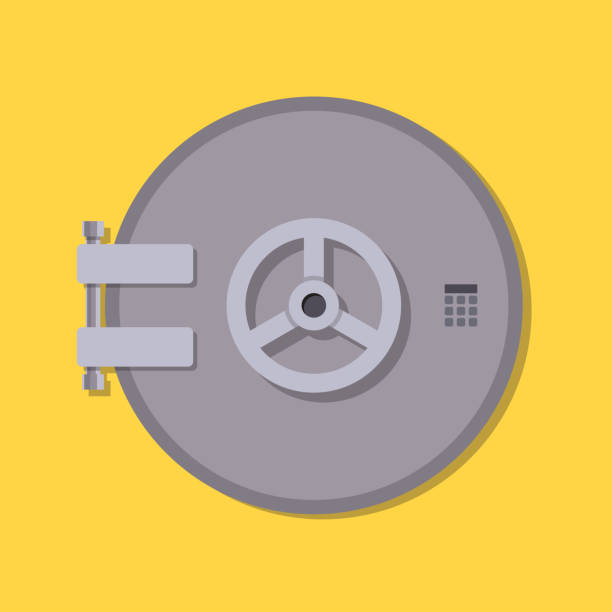
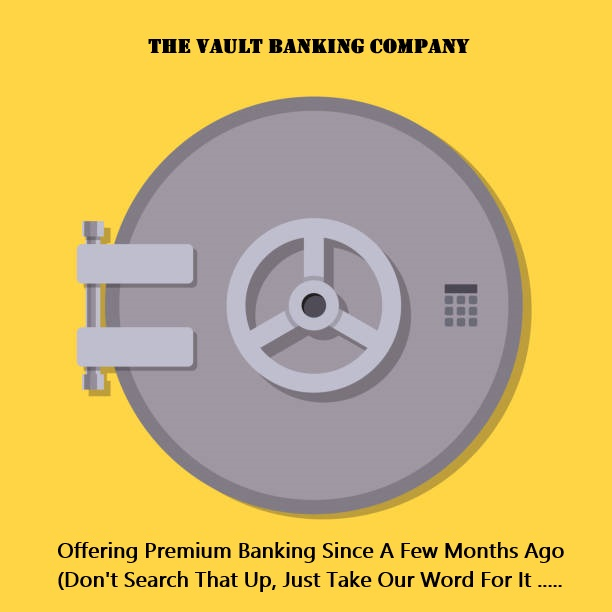
Add files via upload
Updated Login and Homepage to the same style (along with the closed/open vault door effect). Updated the company logo with low effort.

diff --git a/Banking_Application/login.html b/Banking_Application/login.html
@@ -8,22 +8,27 @@
     </script>
     <title>Login</title>
 </head>
-<body style="background-color:khaki;">
-    <h1 style="text-align: center;">THE VAULT</h1>
+<body style="padding: 0px; margin:0px; background-image:url('closedvault.png'); background-repeat:no-repeat; background-size:cover;">
+    <header style="width:100%; left:0px;text-align: center;display:block;font-size:30px;font-family:stencil;text-decoration:underline;background-color:black;color:white;width:100%;position:absolute;height:12%;padding:0%;margin:0%;left:0%;">
+        <div>
+            <p>The Vault</p>
+            <p style="font-size:15px; text-decoration:none">Banking Company</p>
+        </div>
+    </header>
     <a href="https://youtu.be/D7LX93KEFLA">
         <img src="vaultdoor.jpg" style="display: block; margin-left: auto; margin-right: auto" alt="Image of vault door" width="300" height="200">
     </a>
-    <h1 style="text-align: center;">Login Page</h1>
+    <h1 style="text-align: center; color:white; text-decoration:solid">Login Page</h1>
     <br>
-    <p style="text-align: center; font-size: 20px">Welcome to The Vault!<br>The Vault is a banking applications that combines both security and ease of access for the user.</p>
+    <p style="text-align: center; font-size: 20px; color: white">Welcome to The Vault!<br>The Vault is a banking application that combines both security and ease of access for the user.</p>
     <form style="text-align: center; padding-top: 70px; font-size: 20px;" onsubmit="interperetLogin(event)">
         <div>
-            <label for="username">Username:</label>
+            <label for="username", style="color:white">Username:</label>
             <input type="text" id="username" placeholder="Enter your username">
         </div>
         <br>
         <div>
-            <label for="password">Password: </label>
+            <label for="password", style="color:white">Password: </label>
             <input type="text" id="password" placeholder="Enter your password">
         </div>
         <br>
@@ -39,4 +44,11 @@
     
     
 </body>
+<footer style="color:white;position:fixed;width: 100%;border: 2px solid black;bottom:0px;background-color:black;width:100%;left:0px;height:15%">
+    <div>
+        <div style="font-family:stencil;text-decoration:underline;display:inline-block;width:100%;position:fixed;bottom:0%;">
+            <p>Copyright 2024 TheVault Inc. All Rights Reserved.</p>
+        </div>
+    </div>
+</footer>
 </html>

diff --git a/Banking_Application/homepage.html b/Banking_Application/homepage.html
@@ -20,8 +20,11 @@
         <p style="font-size:15px; text-decoration:none">Banking Company</p>
     </div>
 </header>
+<a href="https://youtu.be/D7LX93KEFLA">
+    <img src="vaultdoor.jpg" style="display: block; margin-left: auto; margin-right: auto" alt="Image of vault door" width="300" height="200">
+</a>
 <body style="padding: 0px; margin:0px; background-image:url('openvault.png'); background-repeat:no-repeat; background-size:cover;">
-    <div class="center", style="padding-top:16%">
+    <div class="center", style="padding-top:8%">
         <div class="box", onclick="checkCheckingBalance()">
             <p>Check Checking Account Balance</p>
         </div>
